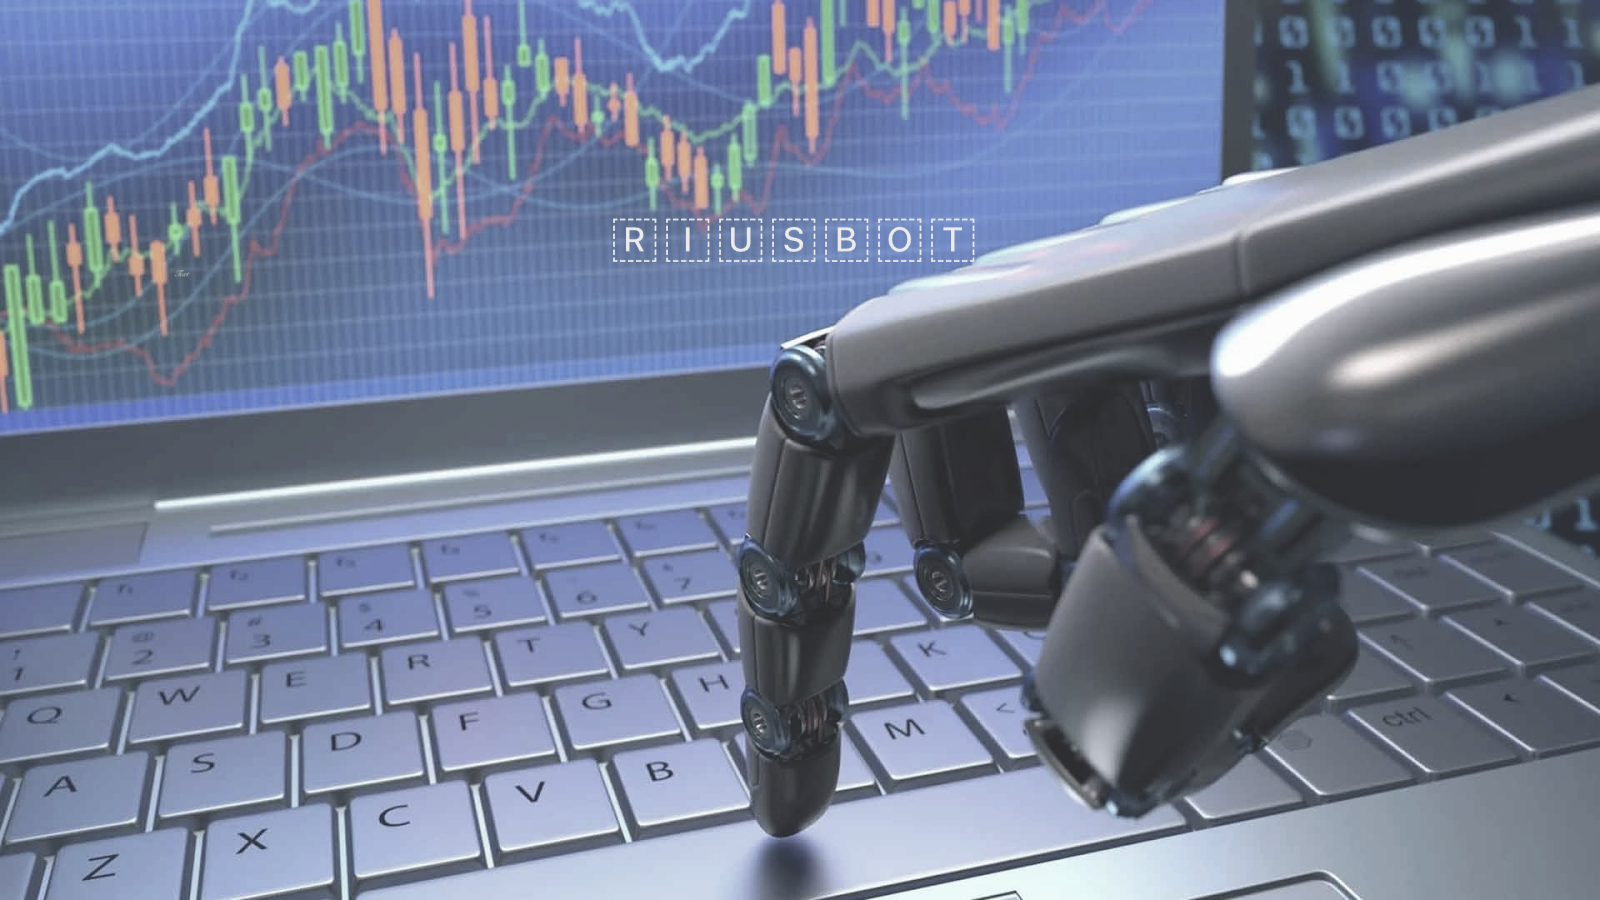
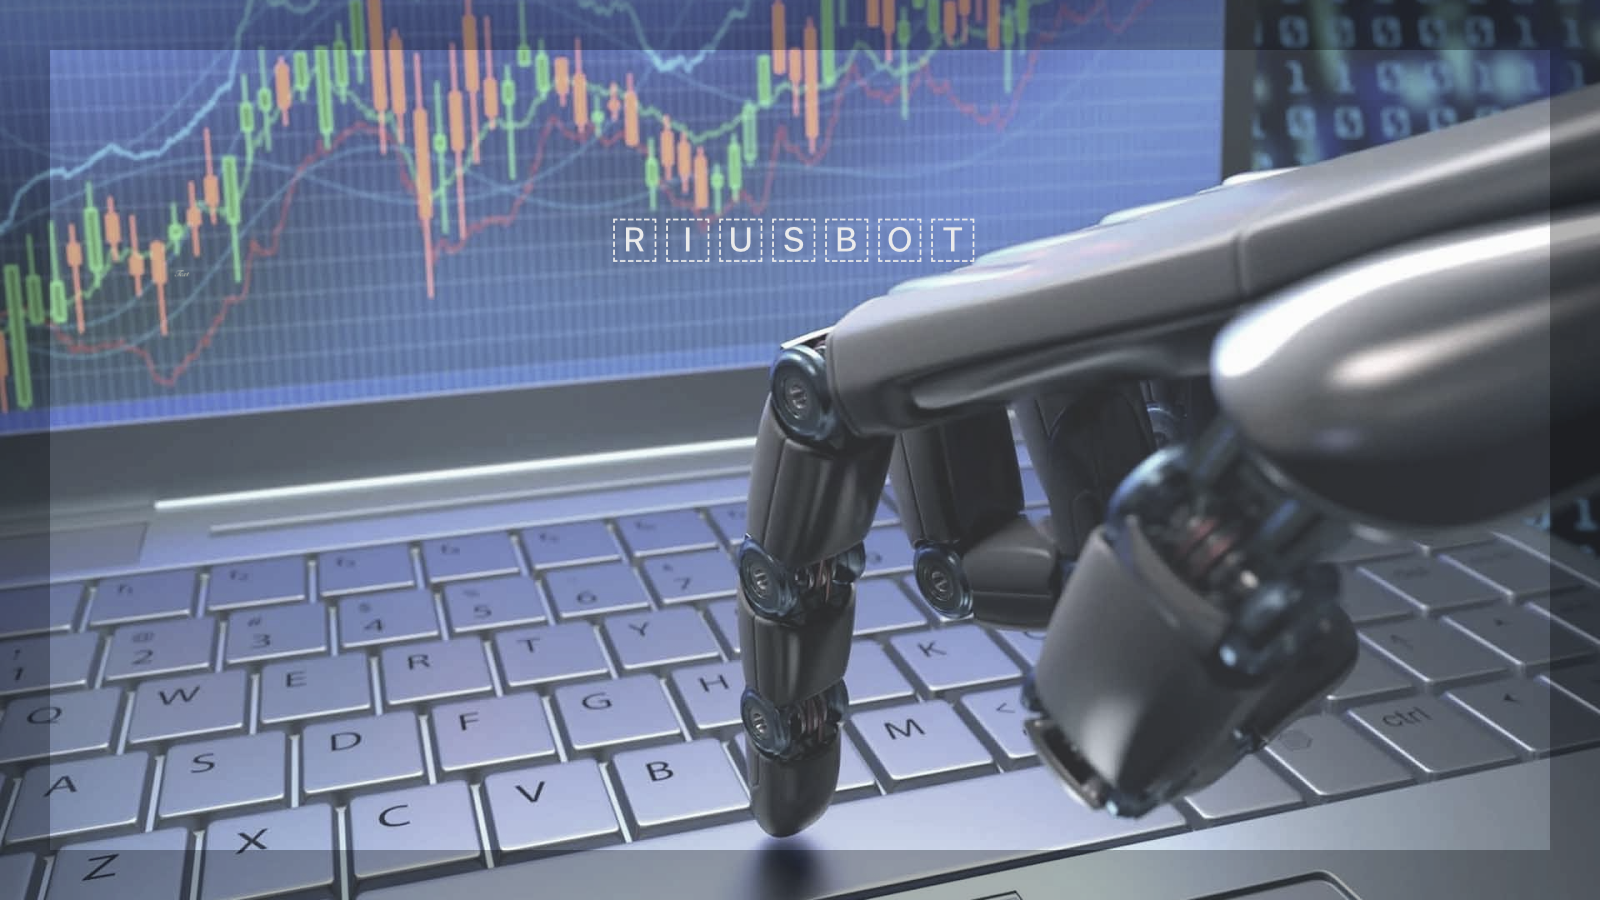
Refine index template

Changed region(s): [[0.0, 0.0, 1.0, 1.0]]

diff --git a/src/pages/index.js b/src/pages/index.js
@@ -1,6 +1,10 @@
 import Head from 'next/head';
 import { useRouter } from 'next/router';
-import { Box } from '@mui/material';
+import EventAvailableIcon from '@mui/icons-material/EventAvailable';
+import LightbulbIcon from '@mui/icons-material/Lightbulb';
+import StarIcon from '@mui/icons-material/Star';
+import StarBorderIcon from '@mui/icons-material/StarBorder';
+import { Box, Typography } from '@mui/material';
 import { DashboardLayout } from '@/common/components/dashboard-layout';
 
 
@@ -20,19 +24,265 @@ const Home = () => {
       </Head>
       <Box
         component="main"
+        sx={{backgroundImage: "radial-gradient(#154360, #111827)", 
+             height: '500px', 
+             width: '100%',
+             display: 'flex',
+             flexDirection: 'row'}}
       >
+        <Box sx={{width: '50%', height: '100%'}}> 
+          <Typography 
+            color="white"
+            variant="h3"
+            sx={{ paddingLeft: '20%', paddingTop: '20%', textAlign: 'left', width: '100%'}}>
+            Discover New <br/>Possibilities
+          </Typography>
+          <Typography 
+            color="white"
+            variant="h5"
+            sx={{ paddingLeft: '20%', paddingTop: '2%', textAlign: 'left', width: '100%'}}>
+            Try yourself. Subscribe now.
+          </Typography>
+        </Box>
 
         <img
           alt="Trading Bot"
           src="/static/images/trading-bot.png"
           style={{
               display: 'inline-block',
-              maxWidth: '100%',
-              width: '100%',
-              height: '100%',
-              overflowY: 'hidden'
+              width: '50%',
+              height: '80%',
+              margin: '32px',
           }}
         />
+      </Box>
+      <Box
+          sx={{backgroundImage: "linear-gradient(#A8B6C4, #E2E5EE)", 
+              height: '550px', 
+              width: '100%',
+              paddingLeft: '64px',
+              display: 'flex',
+              flexDirection: 'row'}}
+      >
+        <img
+          alt="WhaleHunting"
+          src="/static/images/index/products-1.png"
+          style={{
+              display: 'inline-block',
+              width: '40%',
+              height: '80%',
+              margin: '64px 16px',
+              borderRadius: '5%',
+              boxShadow: '8px 8px 5px #616E84'
+          }}
+        />
+        <img
+          alt="Vegas"
+          src="/static/images/index/products-2.png"
+          style={{
+              display: 'inline-block',
+              width: '40%',
+              height: '80%',
+              margin: '64px 16px',
+              borderRadius: '5%',
+              boxShadow: '8px 8px 5px #616E84'
+          }}
+        />
+        <img
+          alt="CTA"
+          src="/static/images/index/products-3.png"
+          style={{
+              display: 'inline-block',
+              width: '40%',
+              height: '80%',
+              margin: '64px 16px',
+              borderRadius: '5%',
+              boxShadow: '8px 8px 5px #616E84'
+          }}
+        />
+        <Box sx={{width: '50%'}}
+        >
+          <Typography 
+            color="textPrimary"
+            variant="h4"
+            sx={{ paddingLeft: '32px',
+                  paddingTop: '64px',
+                  textAlign: 'Left'}}>
+            Products
+          </Typography>
+          <Typography 
+            color="textPrimary"
+            variant="h5"
+            sx={{ paddingLeft: '32px', paddingTop: '2%', textAlign: 'left', width: '100%'}}>
+            Detailed performance report & chart visualization. <br/><br/>
+            Explore more signals and introduction in the products page.
+          </Typography>
+        </Box>
+      </Box>
+
+      <Box
+          sx={{backgroundImage: "linear-gradient(to bottom right, #5B46A2, #25406F, #1C3258, #163F6C, #16768D);", 
+              height: '1000px', 
+              width: '100%'}}
+      >
+        <Typography 
+          color="white"
+          variant="h4"
+          sx={{ paddingLeft: '10%',
+                paddingTop: '64px',
+                textAlign: 'Left'}}>
+          Features
+        </Typography>
+        <Box 
+          sx={{width: '100%',
+              padding: '64px 10%',
+              display: 'flex',
+              flexDirection: 'row'}}
+        >
+          <Box sx={{
+                    width: '30%',}}>
+            <EventAvailableIcon color="light" fontSize="large" />
+            <Typography 
+              color="white"
+              variant="h5"
+              sx={{ 
+                    textAlign: 'Left'}}>
+              Free Trial
+            </Typography>
+            <Typography 
+              color="white"
+              variant="h6"
+              sx={{ paddingTop: '16px',
+                    textAlign: 'Left'}}>
+              All signals available.
+            </Typography>
+          </Box>
+          <Box sx={{width: '30%',
+                    paddingLeft: '16px',}}>
+            <StarIcon color="light" fontSize="large" />
+            <Typography 
+              color="white"
+              variant="h5"
+              sx={{ 
+                    textAlign: 'Left'}}>
+              VIP Plan
+            </Typography>
+            <Typography 
+              color="white"
+              variant="h6"
+              sx={{ paddingTop: '16px',
+                    textAlign: 'Left'}}>
+              <StarBorderIcon color="light" fontSize="medium" sx={{padding: '4px 0 -4px', marginRight: '8px'}}/>
+              FTX
+            </Typography>
+            <Typography 
+              color="white"
+              variant="h6"
+              sx={{ paddingTop: '16px',
+                    textAlign: 'Left'}}>
+              <StarBorderIcon color="light" fontSize="medium" sx={{padding: '4px 0 -4px', marginRight: '8px'}}/>
+              Binance
+            </Typography>
+            <Typography 
+              color="white"
+              variant="h6"
+              sx={{ paddingTop: '16px',
+                    textAlign: 'Left'}}>
+              <StarBorderIcon color="light" fontSize="medium" sx={{padding: '4px 0 -4px', marginRight: '8px'}}/>
+              OKX
+            </Typography>
+            <Typography 
+              color="white"
+              variant="h6"
+              sx={{ paddingTop: '16px',
+                    textAlign: 'Left'}}>
+              <StarBorderIcon color="light" fontSize="medium" sx={{padding: '4px 0 -4px', marginRight: '8px'}}/>
+              AlphaShark
+            </Typography>
+          </Box>
+          <Box sx={{width: '30%',
+                    paddingLeft: '16px',}}>
+            <LightbulbIcon color="light" fontSize="large" />
+            <Typography 
+              color="white"
+              variant="h5"
+              sx={{ 
+                    textAlign: 'Left'}}>
+              AI Optimization
+            </Typography>
+          </Box>
+        </Box>
+      </Box>
+
+      <Box
+          sx={{backgroundImage: "linear-gradient(#A8B6C4, #E2E5EE)",
+              width: '100%'}}
+      >
+        <Typography 
+          color="textPrimary"
+          variant="h4"
+          sx={{ paddingLeft: '10%',
+                paddingTop: '64px',
+                textAlign: 'Left'}}>
+          Dashboard
+        </Typography>
+        <Box 
+          sx={{width: '100%',
+              padding: '64px 10%',
+              display: 'flex',
+              flexDirection: 'row'}}
+        >
+          <Box sx={{ width: '50%'}}>
+            <Typography
+              color="textPrimary"
+              variant="h6"
+              sx={{ textAlign: 'Left'}}>
+              /01 <br/>
+              Bot Trading History
+            </Typography>
+          </Box>
+          <img
+            alt="History"
+            src="/static/images/index/dashboard-trade-history.png"
+            style={{
+                display: 'inline-block',
+                width: '60%',
+                height: '50%',
+                margin: '0 48px 0 0',
+                borderRadius: '2%',
+                boxShadow: '8px 8px 5px #616E84'
+            }}
+          />
+        </Box>
+        <Box 
+          sx={{width: '100%',
+              padding: '64px 10%',
+              display: 'flex',
+              flexDirection: 'row'}}
+        >
+          <img
+            alt="History"
+            src="/static/images/index/dashboard-config-setting.png"
+            style={{
+                display: 'inline-block',
+                width: '60%',
+                height: '50%',
+                margin: '0 48px 0 0',
+                borderRadius: '2%',
+                boxShadow: '8px 8px 5px #616E84'
+            }}
+          />
+          <Box sx={{ width: '50%'}}>
+            <Typography
+              color="textPrimary"
+              variant="h6"
+              sx={{ textAlign: 'Left'}}>
+              /02 <br/>
+              Use AI optimized bot parameters <br/>
+              or customize as much as you want.
+            </Typography>
+          </Box>
+        </Box>
       </Box>
     </>
 )};

diff --git a/src/app/theme.js b/src/app/theme.js
@@ -175,6 +175,9 @@ const theme = createTheme({
       dark: '#0B815A',
       contrastText: '#FFFFFF'
     },
+    light: {
+      main: '#FFFFFF'
+    },
     success: {
       main: '#14B8A6',
       light: '#43C6B7',
